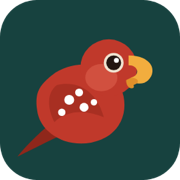
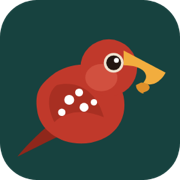
Clinician §9/RACI reporting card, NM committee events, pointy beak
- Clinician workspace: add the '§9 required reporting — what you capture each
  session (RACI-aligned)' card that was missing — minimum de-identified data set
  (mg analyte from COA, diagnosis, session type, outcome battery, PATAE AEs,
  de-identifiers: year of birth / disability Y/N / ZIP), live session counters,
  RACI (Apr 10 2026) decisions, and a 'Record a §9 session' action.
- App events: add the NM Advisory Board committee meetings (Oct 29 End-of-Life,
  Oct 30 Education & Training, Dec 7 Patient Qualification & Safety) so the
  top 'Next policy event' banner surfaces the soonest upcoming NM meeting.
- Favicon: sharpen to a pointy, hooked parrot beak.

Changed region(s): [[0.6667, 0.2778, 0.9167, 0.5278]]

diff --git a/app.html b/app.html
@@ -270,6 +270,9 @@ function setLang(l){ LANG=(l==='es'?'es':'en'); try{ localStorage.setItem('parak
 function t(en, es){ return (LANG==='es' && es) ? es : en; }
 /* ---------- policy / program calendar (keep updated as hearings & deadlines are announced) ---------- */
 var EVENTS=[
+  {d:'2026-10-29', t:'NM committee: End-of-Life Care', note:'Medical Psilocybin Advisory Board subcommittee · 9:00–11:00 AM MT · MS Teams', tag:'NM', hard:true},
+  {d:'2026-10-30', t:'NM committee: Education & Training', note:'Medical Psilocybin Advisory Board subcommittee · 9:00–11:00 AM MT · MS Teams', tag:'NM', hard:true},
+  {d:'2026-12-07', t:'NM committee: Patient Qualification & Safety', note:'Medical Psilocybin Advisory Board subcommittee · 9:00–11:00 AM MT · MS Teams', tag:'NM', hard:true},
   {d:'2026-11-04', t:'Colorado Natural Medicine Division — final rulemaking hearing', note:'9:30am MT · 1707 Cole Blvd, Lakewood, Ste 300 · written-comment deadline 5pm · implements HB26-1325 (1 CCR 213-1)', tag:'CO', hard:true},
   {d:'2026-12-01', t:'New Mexico — target for first patients', note:'DOH goal (~December 2026), about a year ahead of the statutory deadline', tag:'NM', hard:false},
   {d:'2027-12-31', t:'New Mexico — statutory implementation deadline', note:'SB219 backstop; the program must be operational', tag:'NM', hard:true}
@@ -1152,6 +1155,15 @@ function renderClinician(){
   h+='<div class="card" style="border-color:#bfe3cc;background:var(--greenbg)"><h3 style="margin:0 0 8px;color:#1f5a54;font-size:14px">Certification — certifying clinician</h3>'+
      '<div class="kv" style="color:var(--ink)">✓ NM controlled-substances registration <b>on file</b> &nbsp;·&nbsp; ✓ Certifying-clinician training module (<b>7.35.3.18</b>) complete &nbsp;·&nbsp; <span class="status s-approved">Active</span></div>'+
      '<div class="appmeta" style="margin-top:4px">Single sign-on to your clinical portal; enroll patients jointly via the state e-system (≤30-day DOH review). A HIPAA business associate may prepare uploads you review &amp; sign.</div></div>';
+  var _s9=(typeof loadSessions==='function'?loadSessions():[]), _s9a=_s9.filter(function(s){return s.session_type==='Administration';}).length, _s9ae=(typeof loadAE==='function'?loadAE():[]).length;
+  h+='<div class="card" style="border-left:4px solid #17423f;background:#eef3f6;border-color:#bcd4e6"><h3 style="margin:0 0 8px;color:#17423f;font-size:14px">§9 required reporting — what you capture each session <span style="font-weight:600;color:#6b7b74">(RACI-aligned)</span></h3>'+
+     '<div style="display:flex;gap:10px;flex-wrap:wrap;margin-bottom:8px">'+mchip(_s9.length,'Sessions logged')+mchip(_s9a,'Administrations')+mchip(_s9ae,'Adverse events')+'</div>'+
+     '<div class="kv" style="color:var(--ink)">New Mexico requires a <b>minimum, de-identified data set</b> per administration, standardized to <b>mg of psilocybin+psilocin from the COA</b> (never strain or grams). Capture it once at the point of care — it rolls up to the <b>annual §9 assessment</b>.</div>'+
+     '<div style="display:flex;gap:6px;flex-wrap:wrap;margin:8px 0">'+
+       [['Qualifying diagnosis','condition certified'],['mg analyte dosed','from the COA; boosters included'],['Session type','prep · administration · integration'],['Outcome measures','validated battery · baseline + 1/3/6/12-mo'],['Adverse events','PATAE tiers + Sociocultural domain'],['De-identifiers','year of birth · disability Y/N · ZIP']].map(function(x){return '<div style="flex:1 1 150px;border:1px solid #bcd4e6;border-radius:8px;padding:6px 9px;background:#fff"><div style="font-size:11px;font-weight:700;color:#2b5f86">'+x[0]+'</div><div class="appmeta">'+x[1]+'</div></div>';}).join('')+
+     '</div>'+
+     '<div class="kv" style="color:var(--ink)"><b>From the RACI committee (Research &amp; Continuous Improvement, Apr 10 2026):</b> outcomes align to the <b>Recommended Outcome Battery</b> (G. Evans); adverse events follow <b>PATAE</b> (Psychedelic-Assisted-Therapy Adverse Events, incl. a <b>Sociocultural Domain</b>); de-identification is <b>year of birth</b> (not DOB) · <b>diagnosed disability yes/no</b> · residency by <b>ZIP</b>. Deviations &amp; amendments are tracked.</div>'+
+     '<div class="actions"><span class="note">Mandatory §9 is the minimum; research use is separate — opt-in, de-identified &amp; IRB-gated. No names — enrollment IDs only. Source: NMDOH RACI minutes, Apr 10 2026 (pub 9727).</span><button class="btn primary" onclick="go(\'reporting\')">Record a §9 session →</button></div></div>';
   var bl=loadBilling(), blPaid=bl.filter(function(x){return x.status==='Paid';}).reduce(function(s,x){return s+(+x.amt||0);},0);
   h+='<div class="card" style="border-color:#bcd4e6;background:#eef3f6"><h3 style="margin:0 0 8px;color:#2b5f86;font-size:14px">💳 Billing &amp; payments <span style="font-weight:600;color:#6b7b74">(optional)</span></h3>'+
      '<div class="kv" style="color:var(--ink)">The compliance software is <b>free</b>. This optional billing layer is how Parakeet sustains itself — a simple <b>2.5&ndash;4% processing fee</b> <b>only</b> on payments you run through it. Keep your own billing and pay nothing. Collect for <b>care services</b> (preparation · administration · integration).</div>'+
